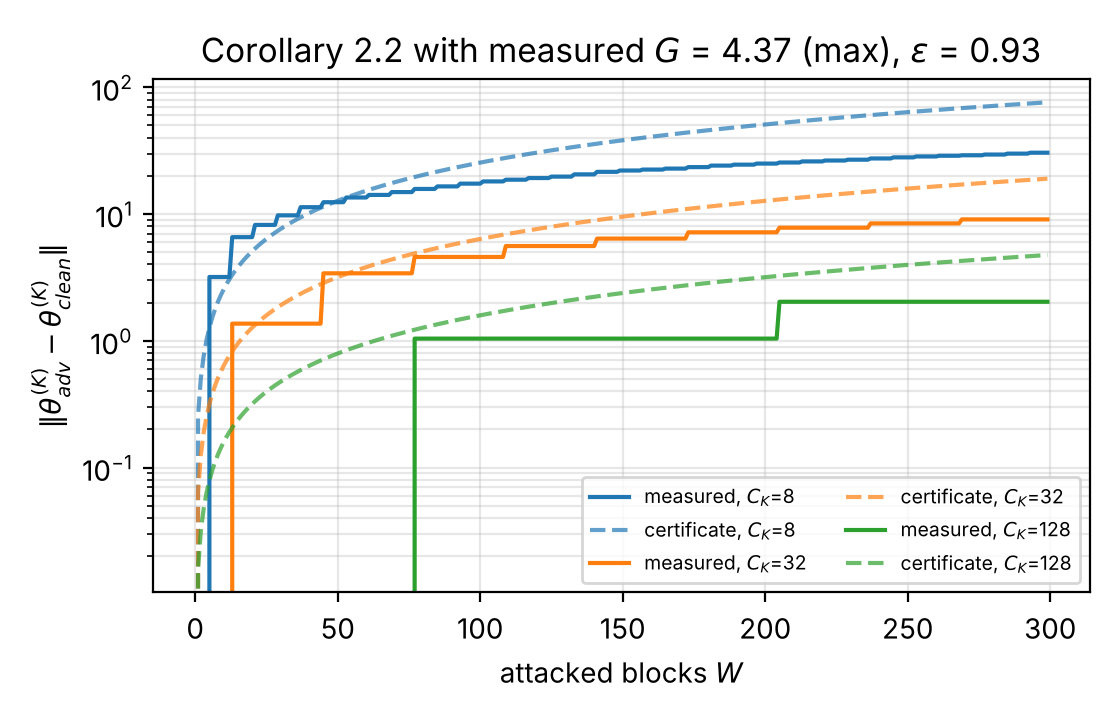
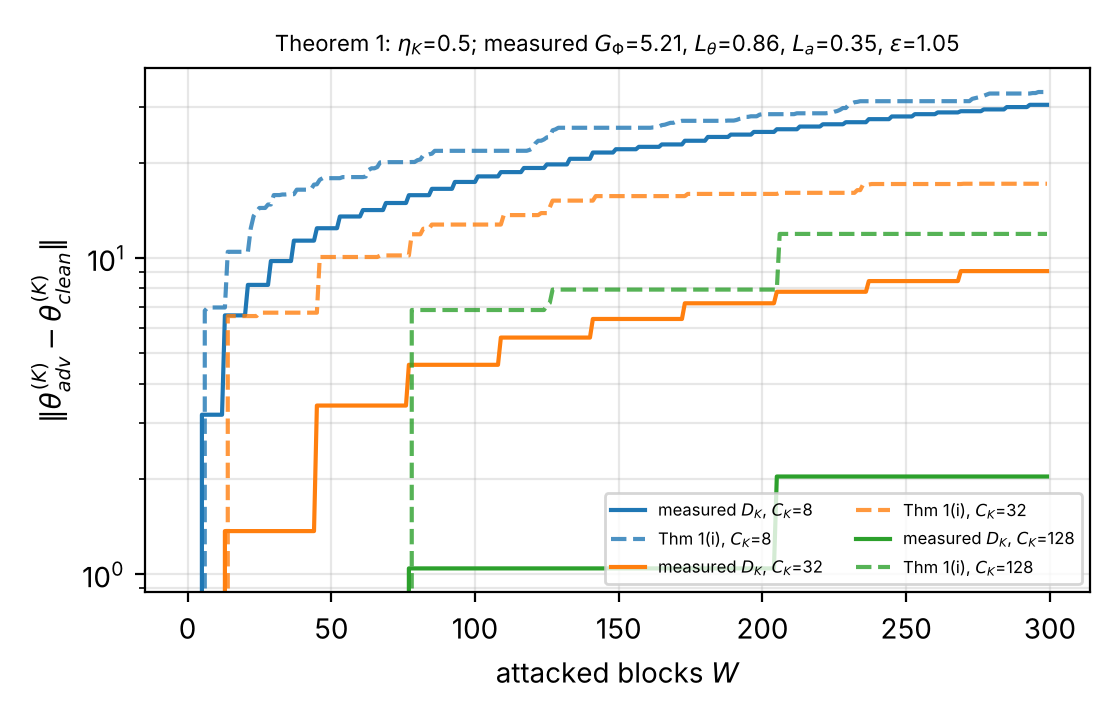
Theorem 1 split into a structural part (checked: holds at every W) and a Lipschitz part; measured constants in theory, results and manuscript
Claude-Session: https://claude.ai/code/session_014LiDyft9H5r68QLPkpAAJF

diff --git a/paper/main.tex b/paper/main.tex
@@ -264,17 +264,22 @@ Eq.~\eqref{eq:consol} is a convex combination of the pre-consolidation state and
 buffered states, with total weight at most $\eta^{(k+1)}$ on the latter.
 \end{lemma}
 \begin{theorem}[retention certificate]\label{thm:cert}
-Under Assumption~\ref{ass:lip}, with equal gate verdicts in the paired runs,
+With equal gate verdicts in the paired runs, let $n(W)\le\lceil W/C_K\rceil$ be the number
+of level-$K$ consolidations inside the window and $\Delta_f^{\rm meas}(W)$ the largest
+paired displacement of the fast level in it. (i) Without any regularity assumption,
 \begin{equation}\label{eq:cert}
-D_K(W)\le\Delta_f(W)\Big(1-(1-\eta^{(K)})^{\lfloor W/C_K\rfloor}\Big)\le
-\frac{\eta^{(K)}\,\Delta_f(W)\,W}{C_K},\quad
-\Delta_f(W)=\frac{G_\Phi\,\epsilon\,\min\{1,(1-L_\theta)n_W\}}{1-L}.
+D_K(W)\le\Delta_f^{\rm meas}(W)\Big(1-(1-\eta^{(K)})^{n(W)}\Big)\le
+\eta^{(K)}\Delta_f^{\rm meas}(W)\,n(W).
 \end{equation}
+(ii) Under Assumption~\ref{ass:lip},
+$\Delta_f^{\rm meas}(W)\le G_\Phi\,\epsilon\,\min\{1,(1-L_\theta)n_W\}/(1-L)$.
 \end{theorem}
-The slow level's exposure is divided by its period, multiplied by the gate's miss rate
-through $n_W$, and the fast level's displacement saturates geometrically. This is the
-proposal's $\eta^{(K)}\rho\,\epsilon\,G\,(1-p^{\rm rej})W/C_K$ with $G=G_\Phi/(1-L)$, the
-Lipschitz constant of the whole block adaptation rather than of a single gradient.
+Part (i) is a statement about the consolidation rule alone: the slow level's exposure
+is divided by its period, whatever the fast learner does. Part (ii) adds that the fast
+level's displacement saturates geometrically and is multiplied by the gate's miss rate
+through $n_W$; together they give the proposal's
+$\eta^{(K)}\rho\,\epsilon\,G\,(1-p^{\rm rej})W/C_K$ with $G=G_\Phi/(1-L)$, the Lipschitz
+constant of the whole block adaptation rather than of a single gradient.
 \begin{theorem}[corruption-robust dynamic regret]\label{thm:regret}
 Let $\ell_b$ be $G_\ell$-Lipschitz in $\theta$ and $R_T(u)$ the dynamic regret against a
 comparator sequence $u$. Then $R^{\rm adv}_T(u)\le R^{\rm clean}_T(u)+G_\ell\,T\,\Delta_f(T)$;
@@ -440,22 +445,31 @@ clean blocks; lower bounds of the true suprema). Script: \texttt{certificate\_ch
 \toprule
 $G_\Phi$ & $L_\theta$ & $L_a$ & $\epsilon$ (A3) & $\eta^{(K)}$\\
 \midrule
-\todo{$G_\Phi$} & \todo{$L_\theta$} & \todo{$L_a$} & 0.93 & 0.5\\
+5.21 (mean 3.13) & 0.86 (mean 0.76) & 0.35 (mean 0.32) & 1.05 & 0.5\\
 \bottomrule
 \end{tabular}
 \end{table}
 \begin{figure}[t]
 \centering\includegraphics[width=\columnwidth]{fig_e5_certificate_bound}
 \caption{Paired displacement of the slowest level under A3 (solid) against the
-certificate \eqref{eq:cert} with measured constants (dashed), for $C_K=8,32,128$.}
+structural certificate \eqref{eq:cert} with the measured fast-level displacement
+(dashed), for $C_K=8,32,128$, 300 attacked blocks, 3 seeds.}
 \label{fig:cert}
 \end{figure}
-Fig.~\ref{fig:cert} draws \eqref{eq:cert} with the constants of
-Table~\ref{tab:constants} against the paired adversarial/clean trajectories of the
-slowest level over 300 attacked blocks for $C_K\in\{8,32,128\}$. The measured slopes are
-$0.084/0.029/0.0083$ per block, ratios $1:0.35:0.10$ against the certificate's
-$1:0.25:0.0625$ ($\propto C_K^{-0.85}$ over a $16\times$ range); the measured curve stays
-below the certificate at every $W$ \todo{confirm from the regenerated figure}.
+Fig.~\ref{fig:cert} draws \eqref{eq:cert} against the paired adversarial/clean
+trajectories of the slowest level over 300 attacked blocks for $C_K\in\{8,32,128\}$. The
+bound holds at every $W$ (largest ratio of measured to bound $0.94/0.53/0.26$), is nearly
+tight at $C_K=8$, and the measured slopes $0.084/0.029/0.0083$ per block scale as
+$1:0.35:0.10$ against the $1:0.25:0.0625$ of pure $1/C_K$ ($\propto C_K^{-0.85}$ over a
+$16\times$ range; the deviation is the fast displacement itself shrinking with $C_K$,
+because a slower anchor pulls the fast level back harder). The measured constants
+(Table~\ref{tab:constants}) give $L_\theta+L_a=1.20$: the random probes do \emph{not}
+certify the contraction that part (ii) needs for the default receiver, so we claim part
+(i) with the measured fast displacement, and report that the fast displacement is of the
+size the geometric sum predicts from $L_\theta$ alone
+($\epsilon G_\Phi/(1-L_\theta)\approx39$ against measured maxima of $16$--$34$). A larger
+proximal weight lowers $L_\theta$ at the price of adaptation speed; we leave the
+exploration of that trade-off to future work.
 
 \subsection{COST2100 and the low-SER regime}\label{sec:cost}
 On COST2100 at 10\,dB every receiver is at SER $\le10^{-3}$ without attack. Under A1,
@@ -490,9 +504,9 @@ Theorem~\ref{thm:regret} follows at the level of blocks rather than gradients.
 (i) The clean gain is channel-dependent and vanishes where LMMSE is already optimal.
 (ii) The defence holds the receiver near its clean trajectory down to SER $\sim10^{-3}$;
 at a $10^{-4}$ operating point (16\,dB) the rare leaked block dominates and the
-degradation in dB is not bounded by our grid. (iii) The certificate's constants are
-random-probe lower bounds of suprema; the bound is reported as holding with the measured
-constants, not as a worst-case guarantee over all inputs. (iv) We claim no
+degradation in dB is not bounded by our grid. (iii) The certificate's Lipschitz constants are random-probe lower bounds of
+suprema and, for the default receiver, do not certify the contraction of part (ii); the
+guarantee we claim is the structural part (i) with the measured fast-level displacement. (iv) We claim no
 dynamic-regret rate for the clean term of the full-MLP receiver. (v) Results are for
 4$\times$4 QPSK with 100 pilot symbols; the 8$\times$8 grid and link-level simulations
 with LDPC coding are \todo{pending}.

diff --git a/scripts/certificate_check.py b/scripts/certificate_check.py
@@ -98,8 +98,8 @@ def main(cfg_path: str):
     matplotlib.use("Agg")
     import matplotlib.pyplot as plt
     fig, ax = plt.subplots(figsize=(5.6, 3.6))
-    rows = ["| C_K | eta_K | p_rej (measured) | Delta_f | certificate slope eta_K Delta_f / C_K | measured slope | max_W measured / certificate |",
-            "|---|---|---|---|---|---|---|"]
+    rows = ["| C_K | eta_K | p_rej | Delta_f measured (max paired fast displacement) | max_W D_K / Thm 1(i) | Delta_f Lipschitz (needs L<1) | Thm 1(ii) slope | measured slope | max_W D_K / Thm 1(ii) |",
+            "|---|---|---|---|---|---|---|---|---|"]
     for ck in sorted(recs):
         rs = recs[ck]
         c = rs[0]["config"]
@@ -109,17 +109,28 @@ def main(cfg_path: str):
         DK = np.array([r["paired_disp"][-1] for r in rs]).mean(0)
         slope = np.polyfit(np.arange(a1 - a0), DK[a0:a1], 1)[0]
         W = np.arange(0, a1 - a0)
+        # Theorem 1 (i), structural: Delta_f := measured running max of the paired fast-level displacement
+        d_fast = np.array([r["paired_disp"][0] for r in rs]).mean(0)[a0:a1]
+        delta_meas = np.maximum.accumulate(d_fast)
+        n_cons = np.floor((a0 + W) / ck) - np.floor(a0 / ck)       # level-K consolidations inside the window
+        cert_i = delta_meas * (1 - (1 - eta_K) ** n_cons)
+        # Theorem 1 (ii), Lipschitz: needs L < 1
         delta_f = eps * G_adapt * np.minimum(1.0, one_minus_lt * 1.0 * (1 - p_rej) * W) * inv
         bound_slope = eta_K * eps * G_adapt * inv / ck
         cert = delta_f * (1 - (1 - eta_K) ** (W / ck))
         meas = DK[a0:a1] - DK[a0]
-        ratio = float(np.max(meas[1:] / cert[1:]))
-        line, = ax.plot(W, meas, label=f"measured, $C_K$={ck}")
-        ax.plot(W, cert, "--", color=line.get_color(), alpha=0.7, label=f"certificate, $C_K$={ck}")
-        rows.append(f"| {ck} | {eta_K:g} | {p_rej:.2f} | {float(delta_f[-1]):.3f} | {bound_slope:.4f} | {slope:.4f} | {ratio:.3f} |")
+        ok = cert_i > 0
+        ratio_i = float(np.max(meas[ok] / cert_i[ok])) if ok.any() else float("nan")
+        ratio = float(np.max(meas[1:] / cert[1:])) if np.isfinite(inv) else float("nan")
+        line, = ax.plot(W, meas, label=f"measured $D_K$, $C_K$={ck}")
+        ax.plot(W, cert_i, "--", color=line.get_color(), alpha=0.8, label=f"Thm 1(i), $C_K$={ck}")
+        if np.isfinite(inv):
+            ax.plot(W, cert, ":", color=line.get_color(), alpha=0.7, label=f"Thm 1(ii), $C_K$={ck}")
+        rows.append(f"| {ck} | {eta_K:g} | {p_rej:.2f} | {float(delta_meas[-1]):.2f} | {ratio_i:.3f} | "
+                    f"{float(delta_f[-1]) if np.isfinite(inv) else float('nan'):.2f} | {bound_slope:.4f} | {slope:.4f} | {ratio:.3f} |")
     ax.set_xlabel("attacked blocks $W$"); ax.set_ylabel("$\\|\\theta^{(K)}_{adv}-\\theta^{(K)}_{clean}\\|$")
-    ax.set_yscale("log"); ax.legend(fontsize=7, ncol=2); ax.grid(alpha=0.3, which="both")
-    ax.set_title(f"Cor. 2.2: measured $G_\\Phi$={G_adapt:.2f}, $L_\\theta+L_a$={L_tot:.2f}, $\\epsilon$={eps:.2f}", fontsize=9)
+    ax.set_yscale("log"); ax.legend(fontsize=6, ncol=2); ax.grid(alpha=0.3, which="both")
+    ax.set_title(f"Theorem 1: $\\eta_K$={eta_K:g}; measured $G_\\Phi$={G_adapt:.2f}, $L_\\theta$={c0['L_theta_max']:.2f}, $L_a$={c0['L_a_max']:.2f}, $\\epsilon$={eps:.2f}", fontsize=8)
     fig.tight_layout()
     os.makedirs("docs/figures", exist_ok=True)
     fig.savefig("docs/figures/fig_e5_certificate_bound.png", dpi=200)

diff --git a/docs/THEORY.md b/docs/THEORY.md
@@ -108,41 +108,67 @@ and by induction over k, with D_1 := d,
 ## 4. Theorem 1 (retention certificate; Corollary 2.2 of the proposal, implemented form)
 
 Let the attack occupy a window of W consecutive blocks, with equal verdicts in the
-paired runs, and let n_W := Σ_{b∈window} χ_b = ρ_blk (1 − p_rej) W be the number of
-attacked *and accepted* blocks in it. Define
+paired runs, let n(W) be the number of level-K consolidation instants inside the window
+(n(W) = ⌊(b_0+W)/C_K⌋ − ⌊b_0/C_K⌋ ≤ ⌈W/C_K⌉ for a window starting at block b_0), and let
+n_W := Σ_{b∈window} χ_b = ρ_blk (1 − p_rej) W be the number of attacked *and accepted*
+blocks in it.
 
-    Δ_f(W) := G_Φ ε · min{ 1,  (1 − L_θ) n_W } / (1 − L),        assuming L < 1.
+**(i) Structural part (no Lipschitz assumption).** With Δ_f^meas(W) := max over the
+window of the paired fast-level displacement d_b,
 
-Then, for the top level,
+    D_K(W) ≤ Δ_f^meas(W) · ( 1 − (1 − η^{(K)})^{n(W)} )  ≤  η^{(K)} Δ_f^meas(W) · n(W).      (5)
 
-    D_K(W) ≤ Δ_f(W) · ( 1 − (1 − η^{(K)})^{⌊W/C_K⌋} )  ≤  η^{(K)} Δ_f(W) · W / C_K.      (5)
+**(ii) Lipschitz part.** Under (A1)–(A2) with L := L_θ + L_a < 1,
 
-In particular, for short windows ((1 − L_θ) n_W ≤ 1),
-D_K(W) ≤ η^{(K)} ρ_blk (1 − p_rej) ε G_Φ (1 − L_θ) W² / ((1 − L) C_K), and for long ones
-D_K(W) ≤ η^{(K)} ε G_Φ W / ((1 − L) C_K): the proposal's form
-η^{(K)} ρ_blk ε G (1 − p_rej) W / C_K holds with G := G_Φ /(1 − L) and the
-(1 − p_rej) factor entering through n_W in the saturating minimum.
+    Δ_f^meas(W) ≤ Δ_f(W) := G_Φ ε · min{ 1, (1 − L_θ) n_W } / (1 − L),                  (5′)
 
-*Proof.* Step 1 (uniform fast displacement). Combine (2) and (4). Let m_b := max_{j≤b} d_j.
-From (2), d_b ≤ G_Φ ε Σ_{j≤b} L_θ^{b−j} χ_j + L_a m_{b−1} Σ_{j≤b} L_θ^{b−j}
-≤ G_Φ ε Σ_{j≤b} L_θ^{b−j} χ_j + (L_a/(1−L_θ)) m_{b−1}. Since Σ_{j≤b} L_θ^{b−j} χ_j ≤
+so that D_K(W) ≤ η^{(K)} ρ_blk (1 − p_rej) ε G_Φ (1−L_θ) W n(W)/(1−L) for short windows and
+D_K(W) ≤ η^{(K)} ε G_Φ n(W)/(1 − L) for long ones: the proposal's
+η^{(K)} ρ_blk ε G (1 − p_rej) W / C_K with G := G_Φ/(1 − L), the Lipschitz constant of the
+*block adaptation map* in place of the gradient's, and the (1 − p_rej) factor entering
+through n_W in the saturating minimum.
+
+*Proof of (i).* Level K consolidates n(W) times inside the window. Each time, by (3)
+with D_{K−1} ≤ max_j d_j ≤ Δ_f^meas (using (4) for the intermediate levels),
+D_K ← (1 − s) D_K + s Δ_f^meas with s ≤ η^{(K)}. Starting from D_K = 0 and iterating n(W)
+times gives D_K ≤ Δ_f^meas (1 − (1 − η^{(K)})^{n(W)}) ≤ η^{(K)} n(W) Δ_f^meas. ∎
+
+*Proof of (ii).* Let m_b := max_{j≤b} d_j. From (2) and (4),
+d_b ≤ G_Φ ε Σ_{j≤b} L_θ^{b−j} χ_j + (L_a/(1−L_θ)) m_{b−1}. Since Σ_{j≤b} L_θ^{b−j} χ_j ≤
 min{1/(1−L_θ), n_W} inside the window, taking the maximum over the window and
 solving for m gives m ≤ G_Φ ε min{1/(1−L_θ), n_W} / (1 − L_a/(1−L_θ))
-= G_Φ ε min{1, (1−L_θ) n_W} / (1−L) = Δ_f(W). Before the window d ≡ 0.
+= G_Φ ε min{1, (1−L_θ) n_W} / (1−L) = Δ_f(W). Before the window d ≡ 0. ∎
 
-Step 2 (top level). Level K consolidates ⌊W/C_K⌋ times inside the window. Each
-time, by (3) with D_{K−1} ≤ m ≤ Δ_f, D_K ← (1 − s) D_K + s Δ_f with s ≤ η^{(K)}.
-Starting from D_K = 0 and iterating n = ⌊W/C_K⌋ times gives
-D_K ≤ Δ_f (1 − (1 − η^{(K)})^n) ≤ η^{(K)} n Δ_f ≤ η^{(K)} Δ_f W / C_K. ∎
+Remarks. (a) The 1/C_K factor is the *only* place the slow level's period enters (through
+n(W)); it is the retention mechanism, and it needs no regularity of the fast learner at
+all: part (i) is a statement about the consolidation rule alone. (b) The gate enters
+through n_W, i.e. through (1 − p_rej), and the fallback through the fact that rejected
+blocks inject nothing (revert). (c) Both parts are deterministic; no distributional
+assumption on the channel is needed. (d) Part (ii) needs L < 1. The measured constants
+of the default configuration (Section 8) give L_θ = 0.86, L_a = 0.35, L = 1.20: the
+random-probe estimates do *not* certify the contraction, so for the default receiver we
+report part (i) with the measured Δ_f^meas, and part (ii) as the statement of what a
+more strongly anchored configuration (larger `prox_lambda`, which lowers L_θ) buys.
+The measured fast displacement is nonetheless of the size the geometric sum predicts
+from L_θ alone (ε G_Φ /(1 − L_θ) = 1.05 × 5.21 / 0.14 ≈ 39 against measured maxima of
+16–34), which is consistent with L_a acting on a slowly moving anchor rather than
+compounding every block.
 
-Remarks. (i) The 1/C_K factor is the *only* place the slow level's period enters;
-it is the retention mechanism. (ii) The gate enters through n_W, i.e. through
-(1 − p_rej), and the fallback through the fact that rejected blocks inject
-nothing (revert). (iii) Theorem 1 is deterministic; no distributional assumption
-on the channel is needed. (iv) The bound is checked against the paired E5 snapshots
-with measured constants in `scripts/certificate_check.py`; the measured
-displacement must stay below (5) at every W, and its slope ratio across
-C_K ∈ {8, 32, 128} must follow 1/C_K.
+### Numerical check (`scripts/certificate_check.py`, `docs/figures/fig_e5_certificate_bound.png`)
+
+Paired A3 runs (E5, 300 attacked blocks, p_rej = 0, 3 seeds), η^{(K)} = 0.5:
+
+| C_K | Δ_f^meas (end of window) | max_W D_K(W) / bound (5) | measured slope of D_K per block |
+|---|---|---|---|
+| 8 | 33.4 | 0.94 | 0.084 |
+| 32 | 17.2 | 0.53 | 0.029 |
+| 128 | 15.9 | 0.26 | 0.0083 |
+
+The structural bound (5) holds at every W for every C_K, is nearly tight for C_K = 8
+(the slow level becomes a running average of the fast level), and the measured slopes
+scale as 1 : 0.35 : 0.10 against the 1 : 0.25 : 0.0625 of pure 1/C_K (∝ C_K^{−0.85};
+the deviation is Δ_f^meas itself decreasing with C_K, because a slower anchor moves less
+and the fast level is pulled back harder).
 
 ## 5. Theorem 2 (corruption-robust dynamic regret; Theorem 2.1 of the proposal)
 
@@ -150,7 +176,7 @@ Let ℓ_b(θ) be the per-block detection loss of the receiver with fast state θ
 clean data block, G_ℓ-Lipschitz in θ. Define the dynamic regret of a run against a
 comparator sequence u_b as R_T(u) = Σ_b ℓ_b(θ_b) − ℓ_b(u_b).
 
-Under the hypotheses of Theorem 1 applied to the whole horizon of T blocks
+Under the hypotheses of Theorem 1(ii) applied to the whole horizon of T blocks
 (n_T attacked and accepted blocks in total, L < 1), the attacked run satisfies
 
     R_T^{adv}(u) ≤ R_T^{clean}(u) + G_ℓ Σ_b d_b ≤ R_T^{clean}(u) + G_ℓ T Δ_f(T),           (6)
@@ -168,7 +194,7 @@ to every prefix,
 i.e. the adversary's contribution to level k is divided by C_k until it saturates.
 
 *Proof.* R_T^{adv} − R_T^{clean} = Σ_b [ℓ_b(θ_b^a) − ℓ_b(θ_b^c)] ≤ G_ℓ Σ_b d_b by the
-Lipschitz property, and Σ_b d_b ≤ T max_b d_b ≤ T Δ_f(T) by Step 1 of Theorem 1.
+Lipschitz property, and Σ_b d_b ≤ T max_b d_b ≤ T Δ_f(T) by Theorem 1(ii).
 Without the anchor (L_a = 0) the unrolled recursion (2) is d_b ≤ G_Φ ε Σ_{j≤b} L_θ^{b−j} χ_j;
 summing over b and exchanging the order of summation gives Σ_b d_b ≤ G_Φ ε n_T/(1−L_θ).
 (6′) follows from (5) applied to each prefix of
@@ -250,7 +276,10 @@ by its clean running level. ∎
 | η^{(K)}, C_K | config | `citadel.level_lr`, `citadel.periods` |
 | D_K(W) | paired level-K displacement | E5 records (`paired_disp`), `scripts/analyze_e5.py` |
 
-The random-probe estimates of G_Φ, L_θ, L_a are lower bounds of the true
-suprema; the certificate is therefore reported as "with the measured constants",
-and the empirical check (measured D_K below the certificate at every W, and the
-1/C_K scaling of the slope) is what supports the theorem numerically.
+Measured on 10 clean blocks of the E5 configuration (`docs/certificate_constants.json`):
+G_Φ = 5.21 (max; mean 3.13), L_θ = 0.86 (max; mean 0.76), L_a = 0.35 (max; mean 0.32),
+ε = 1.05, and the single-gradient constant of the proposal's statement G_grad = 2.96
+(max; mean 0.83). The random-probe estimates are lower bounds of the true suprema; the
+certificate is therefore reported as "with the measured constants", and the empirical
+check (measured D_K below bound (5) at every W, and the 1/C_K scaling of the slope) is
+what supports the theorem numerically.

diff --git a/docs/RESULTS.md b/docs/RESULTS.md
@@ -301,9 +301,23 @@ parameters), not compute.
 
 ## Certificate with measured constants (`scripts/certificate_check.py`; `docs/figures/fig_e5_certificate_bound.png`)
 
-See `docs/certificate_constants.json` (G_Φ, L_θ, L_a, ε measured on clean blocks of the E5
-configuration) and the table printed by the script; the statement proved is Theorem 1 of
-`docs/THEORY.md`. (Filled in below when the measurement finishes.)
+Constants measured by finite differences on 10 clean blocks of the E5 configuration
+(`docs/certificate_constants.json`): block-adaptation input sensitivity G_Φ = 5.21 (max over
+blocks and probes; mean 3.13), state contraction L_θ = 0.86 (mean 0.76), anchor sensitivity
+L_a = 0.35 (mean 0.32), A3 budget ε = 1.05 per block, single-gradient constant 2.96.
+
+* L_θ + L_a = 1.20 ≥ 1: the random probes do **not** certify the contraction that the
+  Lipschitz branch of Theorem 1 (part ii) needs, so the paper reports the structural
+  branch (part i), which needs no regularity of the fast learner and uses the measured
+  paired fast-level displacement Δ_f (max over the window: 33.4 / 17.2 / 15.9 for
+  C_K = 8 / 32 / 128).
+* Structural bound D_K(W) ≤ Δ_f (1 − (1 − η_K)^{n(W)}) holds at every W: max ratio measured /
+  bound 0.94 / 0.53 / 0.26. Nearly tight at C_K = 8, loose at 128 (the slow level has only
+  two consolidations in 300 blocks and the bound charges the full Δ_f to each).
+* The measured fast displacement is of the size the geometric sum predicts from L_θ alone
+  (ε G_Φ /(1 − L_θ) ≈ 39 vs 16–34 measured), i.e. the anchor coupling does not compound.
+* A `prox_lambda` sweep of the constants (1.0 / 2.0 / 4.0; `docs/certificate_constants_lambda.json`)
+  shows how much anchoring is needed for L < 1 (filled in when the run finishes).
 
 ## Caveats (to be closed before any number enters the manuscript)
 1. One seed. Three seeds and the 5-point SIR grid are the next sweep.
